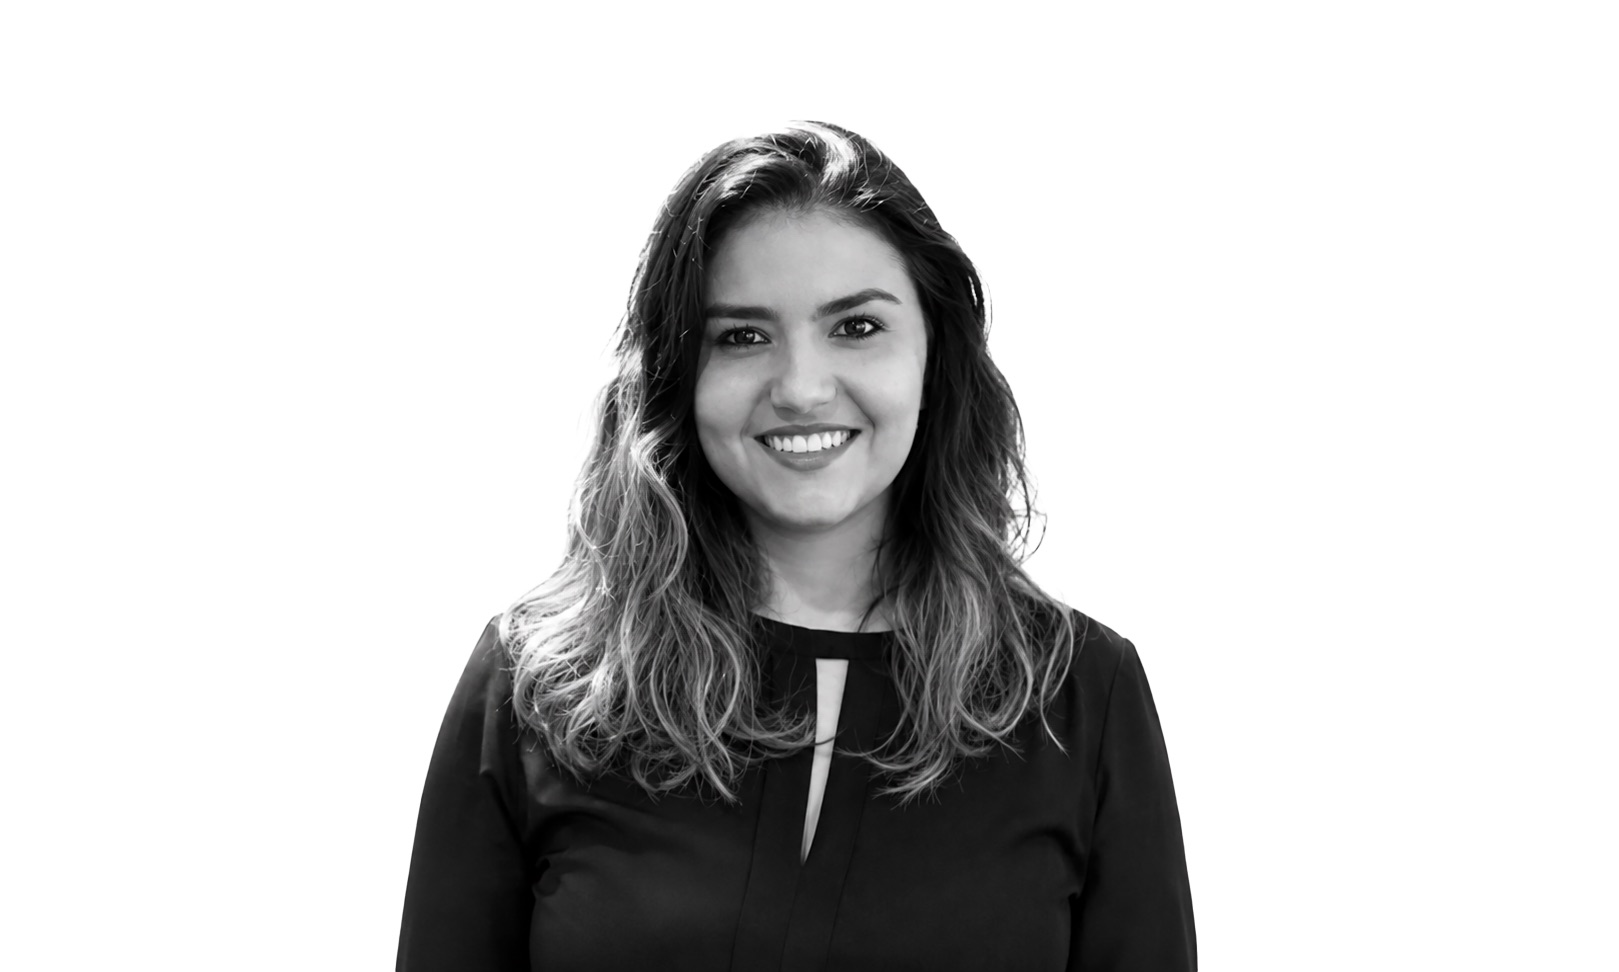
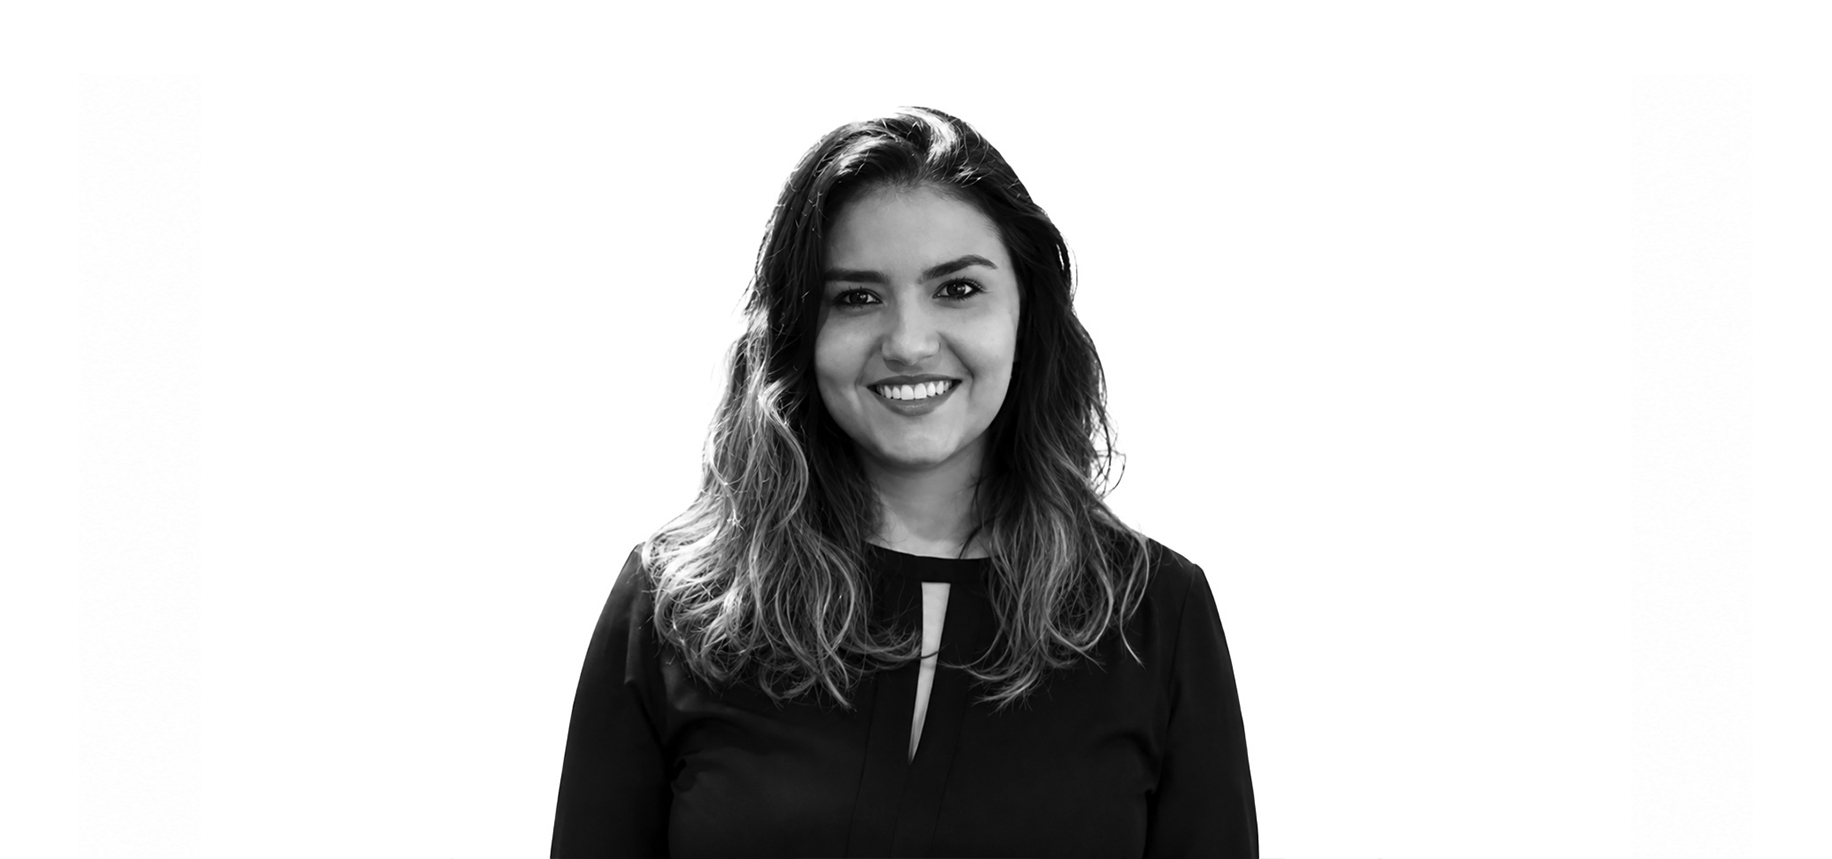
Ajustes navegação mobile e imagens dos profissionais

Changed region(s): [[0.2471, 0.1211, 0.7412, 1.0], [0.6177, 0.8778, 0.6485, 0.9686]]

diff --git a/script.js b/script.js
@@ -162,25 +162,50 @@ document.addEventListener('DOMContentLoaded', () => {
   const profNext = document.querySelector('.prof-next');
   const profContador = document.querySelector('.prof-contador');
 
-  if (profTrack && profSlides.length && profPrev && profNext) {
-    let profAtual = 0;
+  if (profTrack && profSlides.length > 2 && profPrev && profNext) {
+    // Carrossel infinito: o track mantém [anterior, atual, próximo] e fica sempre em -100%;
+    // a cada troca o slide da ponta é movido para o outro lado.
+    profSlides.forEach((slide, i) => { slide.dataset.indice = i; });
+    profTrack.prepend(profTrack.lastElementChild);
+    gsap.set(profTrack, { xPercent: -100 });
 
-    const irParaProfissional = (indice) => {
-      profAtual = (indice + profSlides.length) % profSlides.length;
-      gsap.to(profTrack, { xPercent: -100 * profAtual, duration: 0.6, ease: 'power2.out' });
-      if (profContador) profContador.textContent = `${profAtual + 1} / ${profSlides.length}`;
+    let profAnimando = false;
+
+    const atualizarContador = () => {
+      const atual = Number(profTrack.children[1].dataset.indice);
+      if (profContador) profContador.textContent = `${atual + 1} / ${profSlides.length}`;
     };
 
-    profPrev.addEventListener('click', () => irParaProfissional(profAtual - 1));
-    profNext.addEventListener('click', () => irParaProfissional(profAtual + 1));
+    const trocarProfissional = (direcao) => {
+      if (profAnimando) return;
+      profAnimando = true;
+      gsap.to(profTrack, {
+        xPercent: direcao > 0 ? -200 : 0,
+        duration: 0.6,
+        ease: 'power2.out',
+        onComplete: () => {
+          if (direcao > 0) profTrack.appendChild(profTrack.firstElementChild);
+          else profTrack.prepend(profTrack.lastElementChild);
+          gsap.set(profTrack, { xPercent: -100 });
+          atualizarContador();
+          profAnimando = false;
+        }
+      });
+    };
 
-    // Arrastar para os lados troca o profissional (o slide acompanha o dedo/mouse)
+    profPrev.addEventListener('click', () => trocarProfissional(-1));
+    profNext.addEventListener('click', () => trocarProfissional(1));
+
+    // Arrastar para os lados troca o profissional (o slide acompanha o dedo)
     arrastavel(profTrack, {
-      onMove: dx => gsap.set(profTrack, { xPercent: -100 * profAtual, x: dx }),
+      onMove: dx => {
+        if (profAnimando) return;
+        gsap.set(profTrack, { xPercent: -100 + (dx / profTrack.offsetWidth) * 100 });
+      },
       onEnd: dx => {
-        gsap.to(profTrack, { x: 0, duration: 0.6, ease: 'power2.out' });
-        if (Math.abs(dx) > 50) irParaProfissional(profAtual + (dx < 0 ? 1 : -1));
-        else irParaProfissional(profAtual);
+        if (profAnimando) return;
+        if (Math.abs(dx) > 50) trocarProfissional(dx < 0 ? 1 : -1);
+        else gsap.to(profTrack, { xPercent: -100, duration: 0.3, ease: 'power2.out' });
       }
     });
   }
@@ -285,6 +310,19 @@ document.addEventListener('DOMContentLoaded', () => {
 
   todasAtuas.forEach((p, i) => {
     p.addEventListener('click', () => toggleAtua(i));
+  });
+
+  // Botão "Fechar" no fim do texto (mobile/tablet): fecha e volta para o título
+  document.querySelectorAll('.atua-fechar').forEach(botao => {
+    botao.addEventListener('click', async () => {
+      const info = botao.closest('.atuaInfotribu');
+      const titulo = info?.previousElementSibling;
+      const indice = Array.from(todasAtuas).indexOf(titulo);
+      if (indice < 0) return;
+      await toggleAtua(indice);
+      const headerAltura = parseFloat(getComputedStyle(document.documentElement).getPropertyValue('--header-height')) || 0;
+      gsap.to(window, { duration: 0.6, scrollTo: { y: titulo, offsetY: Math.max(headerAltura, 90), autoKill: false }, ease: 'power2.out' });
+    });
   });
 
   // === Menu mobile ===

diff --git a/style.css b/style.css
@@ -382,6 +382,21 @@ button {
   padding: 1% 0;
 }
 
+/* "Fechar" no fim do accordion: só no mobile/tablet (no desktop o texto rola dentro da coluna) */
+.atua-fechar {
+  display: none;
+  width: auto;
+  height: auto;
+  margin: 10px 0 30px;
+  padding: 10px 22px;
+  border: 1px solid var(--green);
+  font-family: "Roboto", sans-serif;
+  font-size: 0.875rem;
+  letter-spacing: .08em;
+  text-transform: uppercase;
+  color: var(--green);
+}
+
 /* Profissionais */
 #profissionais{
   position: relative;
@@ -950,6 +965,10 @@ html.is-loading .preloader,
 .carousel-container.arrastando,
 .profissionais-track.arrastando {
   cursor: grabbing;
+}
+
+.atua-fechar {
+  display: inline-block;
 }
 
 /* Esconde o bloco inteiro: a margem negativa dele puxava o texto para a borda */

diff --git a/components/atuacao.js b/components/atuacao.js
@@ -39,6 +39,7 @@ class SiteAtuacao extends HTMLElement {
               <li>Acompanhamento de procedimentos de fiscalização tributária ou aduaneira em curso com o objetivo de conferir efetividade aos esclarecimentos prestados pelos clientes e prevenir eventuais contingências indevidas.</li>
 
             </ol>
+            <button type="button" class="atua-fechar">Fechar</button>
           </div>
         </div>
       </div>
